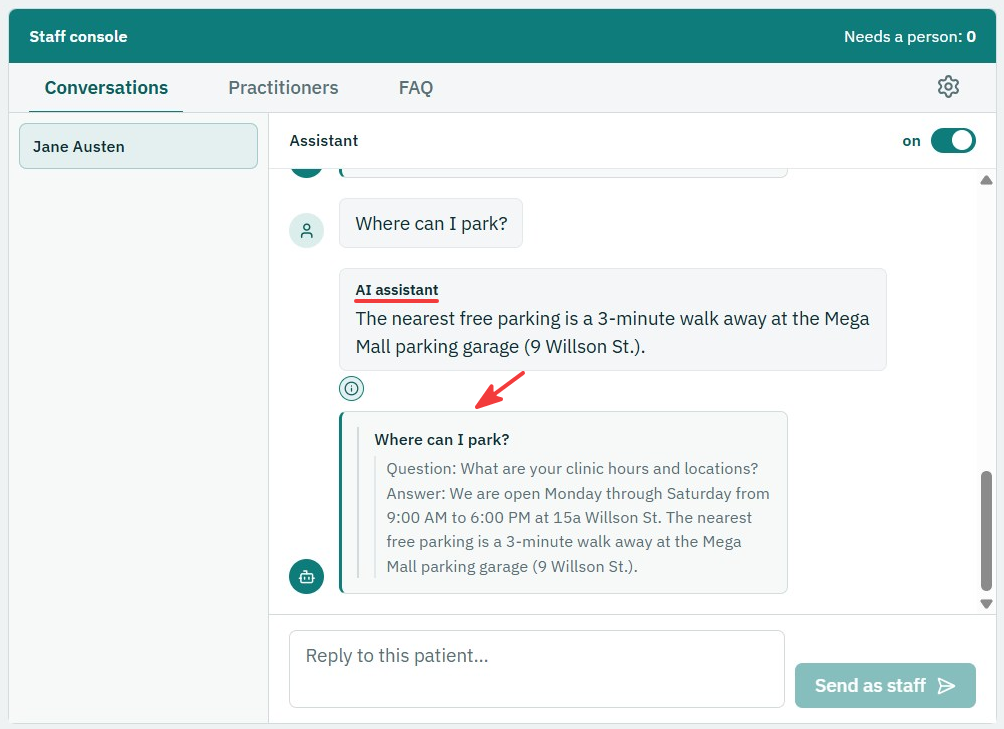
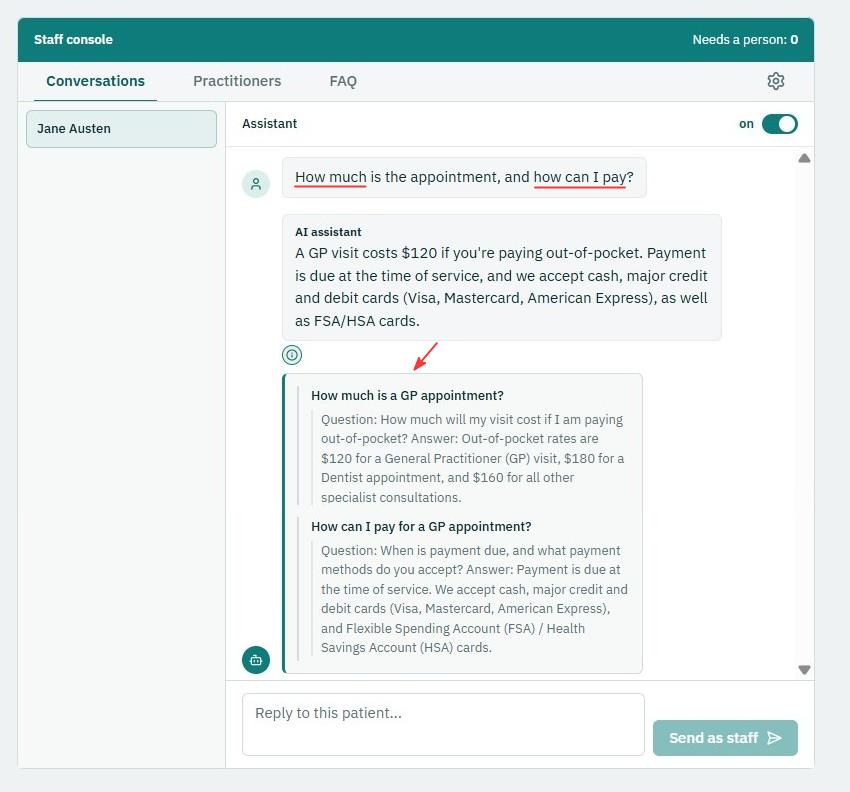
docs: Rework the AI engineering portfolio page - link the heading to VisitDoc.app, add hover screenshots of a multi-topic reply and a cited answer, and refresh the citation screenshot

diff --git a/docs/portfolio-ai-engineering.html b/docs/portfolio-ai-engineering.html
@@ -3,7 +3,7 @@
 <head>
 <meta charset="utf-8">
 <meta name="viewport" content="width=device-width, initial-scale=1">
-<title>VisitDoc · AI Engineering</title>
+<title>visitdoc.app · AI Engineering</title>
 <style>
   :root { --ink:#1c2430; --muted:#5b6675; --accent:#0f6b5c; --soft:#e8f3f0; --line:#d7dee5; }
   @page { size: A4; margin: 8mm 12mm; }
@@ -16,6 +16,7 @@
   nav a { color:var(--muted); margin-right:10px; }
   nav a.on { color:var(--accent); font-weight:600; text-decoration:none; }
   h1 { font-size:17pt; margin:0; letter-spacing:-.2px; }
+  h1 a { color:var(--accent); text-decoration:none; }
   .sub { color:var(--muted); margin:1px 0 4px; }
   .lede { background:var(--soft); border-left:3px solid var(--accent); padding:5px 9px; margin:0 0 6px; }
   h2 { font-size:10pt; color:var(--accent); text-transform:uppercase; letter-spacing:.6px;
@@ -33,6 +34,8 @@
   .peek img { display:none; position:absolute; left:0; top:calc(100% + 6px); z-index:10; width:672px; max-width:88vw;
               border:1px solid var(--line); border-radius:6px; background:#fff; box-shadow:0 6px 24px rgba(0,0,0,.18); }
   .peek:hover img, .peek:focus-visible img { display:block; }
+  .peek.half img { width:336px; }
+  .peek.mid img { width:504px; }
   @media (max-width:640px) { .page { margin:0; padding:16px; box-shadow:none; } .stats { flex-wrap:wrap; } .stat { flex:1 1 45%; } }
   @media print { .peek img { display:none !important; } .peek { border-bottom:0; } body { background:#fff; } .page { margin:0; padding:0; box-shadow:none; max-width:none; } }
 </style>
@@ -40,12 +43,12 @@
 <body>
 <div class="page">
   <nav><a class="on" href="portfolio-ai-engineering.html">AI engineering</a><a href="portfolio-adlc.html">Agentic development</a><a href="portfolio-architecture.html">Architecture</a></nav>
-  <h1>VisitDoc: AI engineering</h1>
+  <h1><a href="https://visitdoc.app" target="_blank" rel="noopener">visitdoc.app</a>: AI engineering</h1>
   <!-- <div class="sub">A chat assistant for a medical clinic · github.com/Andrey-Volkovitskiy/visit-doc</div> -->
-  <p class="lede">A chat assistant for a medical clinic: patients manage appointments and ask policy questions in plain language.
+  <p class="lede">A chat assistant for a medical clinic that helps patients manage appointments and answers policy questions.
   A <b>LangGraph agent</b> splits each message into requests and handles them in parallel, each on the cheapest model that can do the job.
-  Answers come <b>only from retrieved, cited sources</b>, every change is <b>measured against a golden set</b>, and when the assistant
-  can't answer safely, <b>a person is called instead of a guess</b>.</p>
+  Answers come <b>only from retrieved, cited sources</b>, every change is <b>measured</b> against a <b>golden set</b>, and when the assistant
+  can't answer safely, a person is called <b>instead of a guess</b>.</p>
 
   <h2>Agent flow (LangGraph)</h2>
   <svg viewBox="0 0 720 152" role="img" aria-label="Agent flow: classifier, three parallel specialists, composer">
@@ -65,20 +68,20 @@
     <rect class="k" x="90" y="20" width="156" height="112" rx="7"/>
     <text class="t" x="98" y="38">Intent classifier</text>
     <text class="m" x="98" y="52">Haiku · structured output</text>
-    <text class="s" x="98" y="70">• splits the message into</text>
-    <text class="s" x="106" y="82">up to 3 requests</text>
+    <text class="s" x="98" y="70">• splits the message</text>
+    <text class="s" x="106" y="82">into several requests</text>
     <text class="s" x="98" y="96">• gives each an intent</text>
-    <text class="s" x="98" y="110">• rewrites each to stand on</text>
-    <text class="s" x="106" y="122">its own (from chat history)</text>
+    <text class="s" x="98" y="110">• rewrites each to be</text>
+    <text class="s" x="106" y="122">self-contained</text>
     <rect class="b" x="296" y="4" width="160" height="44" rx="7"/>
     <text class="t" x="304" y="21">Booking</text><text class="m" x="448" y="21" text-anchor="end">Sonnet 5</text>
     <text class="s" x="304" y="38">tool calls → scheduler micro svc.</text>
     <rect class="b" x="296" y="54" width="160" height="44" rx="7"/>
-    <text class="t" x="304" y="71">FAQ</text><text class="m" x="448" y="71" text-anchor="end">Sonnet 5</text>
+    <text class="t" x="304" y="71">FAQ questions</text><text class="m" x="448" y="71" text-anchor="end">Sonnet 5</text>
     <text class="s" x="304" y="88">RAG → cited answer</text>
     <rect class="b" x="296" y="104" width="160" height="44" rx="7"/>
     <text class="t" x="304" y="121">Small talk</text><text class="m" x="448" y="121" text-anchor="end">Haiku 4.5</text>
-    <text class="s" x="304" y="138">greetings, thanks, "ok"</text>
+    <text class="s" x="304" y="138">answers to greetings, thanks, "ok"</text>
     <rect class="k" x="506" y="44" width="112" height="64" rx="7"/>
     <text class="t" x="514" y="62">Composer</text><text class="m" x="514" y="76">Sonnet 5</text>
     <text class="s" x="514" y="90">merges the parts</text>
@@ -95,113 +98,106 @@
     <path class="ln" d="M618,76 H638"/>
   </svg>
   <ul>
-    <li><b>The specialist nodes</b> run in parallel, and each sees only its own requests, so one question can't leak into another's answer.
-      The model is chosen per node for <b>cost</b>: cheap and fast Haiku for classifying and chatting, more capable Sonnet for anything that states a fact or changes a booking.</li>
+    <li><b>Multi-topic message processing:</b> the classifier <a class="peek half" href="img/multi-topic-message.png" target="_blank" rel="noopener">splits<img src="img/multi-topic-message.png" alt="A patient asks to book a GP appointment and where to park; one reply answers the parking question and confirms the booking" onerror="this.remove()"></a> a patient message into several self-contained requests,
+      each handled by a specialist node in parallel, so one reply can book an appointment and answer a clinic policy question.</li>
+    <li><b>Cost-aware model selection:</b> cheap and fast Haiku model for classifying, more capable Sonnet for stating facts and booking.</li>
     <li><b>Tools over two transports:</b> the in-house agent's seven tools reach the scheduling service over <b>gRPC</b>. An external
       agent, the Claude mobile app, gets staff tools over <b>MCP</b> (OAuth 2.1), so staff away from the desk see which chats need attention.</li>
   </ul>
 
   <h2>RAG flow: answer only when it's grounded</h2>
-  <svg viewBox="0 0 720 112" role="img" aria-label="RAG flow from query rewriting to answer or escalation">
+  <svg viewBox="0 0 720 150" role="img" aria-label="RAG flow: the rewritten query goes to a hybrid search, semantic top 5 plus BM25 keyword top 3, which are merged, reranked and either answered with citations or forwarded to staff">
     <defs>
       <marker id="a2" viewBox="0 0 10 10" refX="9" refY="5" markerWidth="6" markerHeight="6" orient="auto"><path d="M0,0L10,5L0,10z" fill="#5b6675"/></marker>
       <style>
         .b2{fill:#fff;stroke:#c9d1da;stroke-width:1.2}
         .k2{fill:#e8f3f0;stroke:#0f6b5c;stroke-width:1.3}
         .w2{fill:#fdf1ec;stroke:#b4532a;stroke-width:1.2;stroke-dasharray:4 3}
+        .g2{fill:#f6faf9;stroke:#0f6b5c;stroke-width:1.1;stroke-dasharray:5 3}
         .t2{font-size:11px;font-weight:600;fill:#1c2430}
         .s2{font-size:9.4px;fill:#5b6675}
+        .m2{font-size:9.4px;fill:#0f6b5c;font-weight:600}
+        .h2{font-size:9.4px;fill:#0f6b5c;font-weight:700;letter-spacing:.5px}
         .q2{font-size:9.4px;fill:#0f6b5c;font-style:italic}
         .lb2{font-size:9.4px;fill:#0f6b5c;font-style:normal;font-weight:600}
         .ln2{stroke:#5b6675;stroke-width:1.2;fill:none;marker-end:url(#a2)}
       </style>
     </defs>
-    <rect class="k2" x="2" y="4" width="118" height="50" rx="7"/>
-    <text class="t2" x="10" y="20">Query rewrite</text>
-    <text class="s2" x="10" y="34">self-contained query</text><text class="s2" x="10" y="46">from the chat history</text>
-    <rect class="b2" x="138" y="4" width="80" height="50" rx="7"/>
-    <text class="t2" x="146" y="20">Embed</text>
-    <text class="s2" x="146" y="34">Voyage</text><text class="s2" x="146" y="46">embeddings</text>
-    <rect class="b2" x="236" y="4" width="146" height="50" rx="7"/>
-    <text class="t2" x="244" y="20">Vector search</text>
-    <text class="s2" x="244" y="34">Qdrant, cosine similarity:</text><text class="s2" x="244" y="46">25 candidates → top 5</text>
-    <rect class="k2" x="400" y="4" width="146" height="50" rx="7"/>
-    <text class="t2" x="408" y="20">Rerank</text>
-    <text class="s2" x="408" y="34">cross-encoder: top 3</text><text class="s2" x="408" y="46">scoring ≥ 0.58 (calibrated)</text>
-    <rect class="b2" x="564" y="4" width="154" height="50" rx="7"/>
-    <text class="t2" x="572" y="20">Answer · Sonnet 5</text>
-    <text class="s2" x="572" y="34">from those chunks only;</text><text class="s2" x="572" y="46">citations = chunks used</text>
-    <rect class="w2" x="400" y="72" width="318" height="36" rx="7"/>
-    <text class="t2" x="408" y="87">No grounded chunks found</text>
-    <text class="s2" x="408" y="101">abstain with no generation call; forward the question to staff</text>
-    <text class="q2" x="2" y="82"><tspan class="lb2">Patient message:</tspan> "How much is the visit?" →</text>
-    <text class="q2" x="2" y="98"><tspan class="lb2">Rewritten query:</tspan> "How much is a dentist visit?"</text>
-    <path class="ln2" d="M120,29 H136"/><path class="ln2" d="M218,29 H234"/>
-    <path class="ln2" d="M382,29 H398"/><path class="ln2" d="M546,29 H562"/>
-    <path class="ln2" d="M473,54 V70"/>
+    <!-- query -->
+    <rect class="k2" x="2" y="34" width="104" height="62" rx="7"/>
+    <text class="t2" x="10" y="51">Query</text>
+    <text class="s2" x="10" y="66">rewritten to be</text><text class="s2" x="10" y="78"> self-contained</text><text class="s2" x="10" y="90">(from chat history)</text>
+    <!-- hybrid search: two branches -->
+    <rect class="g2" x="124" y="2" width="226" height="114" rx="9"/>
+    <text class="h2" x="134" y="16">HYBRID SEARCH · QDRANT</text>
+    <rect class="b2" x="134" y="22" width="76" height="40" rx="7"/>
+    <text class="t2" x="142" y="38">Embed</text><text class="s2" x="142" y="53">Voyage</text>
+    <rect class="b2" x="224" y="22" width="116" height="40" rx="7"/>
+    <text class="t2" x="232" y="38">Semantic</text><text class="m2" x="332" y="38" text-anchor="end">top 5</text>
+    <text class="s2" x="232" y="53">cosine similarity</text>
+    <rect class="b2" x="134" y="70" width="206" height="40" rx="7"/>
+    <text class="t2" x="142" y="86">Keyword · BM25</text><text class="m2" x="332" y="86" text-anchor="end">+ top 3</text>
+    <text class="s2" x="142" y="101">exact terms: codes, names, prices</text>
+    <!-- merge, rerank, answer -->
+    <rect class="b2" x="370" y="34" width="92" height="62" rx="7"/>
+    <text class="t2" x="378" y="51">Merge</text>
+    <text class="s2" x="378" y="66">union of both</text><text class="s2" x="378" y="78">branches</text>
+    <text class="m2" x="378" y="90">5–8 chunks</text>
+    <rect class="k2" x="480" y="34" width="110" height="62" rx="7"/>
+    <text class="t2" x="488" y="51">Rerank</text>
+    <text class="s2" x="488" y="66">cross-encoder</text><text class="s2" x="488" y="78">keeps the top 3</text>
+    <text class="m2" x="488" y="90">score ≥ 0.58</text>
+    <rect class="b2" x="608" y="34" width="110" height="62" rx="7"/>
+    <text class="t2" x="616" y="51">Answer</text><text class="m2" x="616" y="64">Sonnet 5</text>
+    <text class="s2" x="616" y="78">from those chunks</text><text class="s2" x="616" y="90">only; cites them</text>
+    <!-- abstain -->
+    <rect class="w2" x="480" y="112" width="238" height="36" rx="7"/>
+    <text class="t2" x="488" y="127">Forward the question to staff</text>
+    <text class="s2" x="488" y="141">nothing scores ≥ 0.58</text>
+    <!-- example -->
+    <text class="q2" x="2" y="131"><tspan class="lb2">Patient message:</tspan> "How much is it?" →</text>
+    <text class="q2" x="2" y="145"><tspan class="lb2">Rewritten query:</tspan> "How much is a dentist visit?"</text>
+    <!-- arrows -->
+    <path class="ln2" d="M106,65 C120,65 118,42 132,42"/>
+    <path class="ln2" d="M106,65 C120,65 118,90 132,90"/>
+    <path class="ln2" d="M210,42 H222"/>
+    <path class="ln2" d="M340,42 C356,42 352,65 368,65"/>
+    <path class="ln2" d="M340,90 C356,90 352,65 368,65"/>
+    <path class="ln2" d="M462,65 H478"/>
+    <path class="ln2" d="M590,65 H606"/>
+    <path class="ln2" d="M535,96 V110"/>
   </svg>
   <ul>
+    <li><b>Hybrid search:</b> semantic + BM25 keyword search. Of the two merge strategies <b>measured</b> on the <b>golden set</b>,
+      RRF lost 3 answers and adding BM25's top 3 to the semantic top 5 lost none, so addition ships.</li>
     <li><b>Structure-aware chunking:</b> documents are cut at their headings, one chunk per section, each prefixed with its
-      heading path, so a retrieved chunk keeps the context of the section it came from.</li>
-    <li><b><a class="peek" href="img/citation.png" target="_blank" rel="noopener">FAQ citations<img src="img/citation.png" alt="The staff console showing an assistant answer with the FAQ entry it was retrieved from" onerror="this.remove()"></a> come from the retrieval structure, not from the LLM</b>, so the model can't invent a source. A verdict is stored
-      <b>per request</b>, so a two-question message can answer one and pass the other to staff.</li>
+      heading path, so a retrieved chunk keeps the <b>context</b> of the section it came from.</li>
+    <li><b>Grounded FAQ answers:</b> the model answers only from retrieved clinic policy and hands uncovered questions to staff
+      instead of guessing. <b><a class="peek mid" href="img/citation.png" target="_blank" rel="noopener">Citations<img src="img/citation.png" alt="The staff console showing an assistant answer with the FAQ entry it was retrieved from" onerror="this.remove()"></a></b>
+      show staff which policy sections each answer drew on.</li>
   </ul>
 
   <h2>Data-driven decisions</h2>
   <ul>
     <li><b>A golden set</b> of 146 labelled cases and an <b>evaluation harness</b> that drives them through the real stack, so every change
-      to the flow, a prompt or a setting gets a <b>side-by-side comparison</b> with the baseline. A <b>measured noise band</b> 
+      to the flow, a prompt or a setting gets a side-by-side comparison with the baseline. A <b>measured noise band</b> 
       separates a real improvement or regression from the model's ordinary run-to-run variation.</li>
-    <li><b>Tuned by measurement, not by intuition:</b> the evaluation drove the prompt improvements, the retrieval thresholds (the rerank floor
-      calibrated at 0.58) and a temperature for the classifier. <b>Unserved answerable requests fell from
-      12/87 to 1/87</b>.</li>
-    <li><a class="peek" href="img/langfuse-trace.png" target="_blank" rel="noopener"><b>Langfuse</b><img src="img/langfuse-trace.png" alt="A Langfuse trace of one turn: each step with its latency and cost" onerror="this.remove()"></a> traces the cost and latency of every step of the flow. <b>Prompt caching</b>, added where the traces showed the
-      spend, <b>cut model costs by 45%</b>.</li>
+    <li><b>Tuned by measurement, not by intuition:</b> the evaluation drove the prompt improvements,
+      the rerank floor (calibrated at 0.58) and a temperature for the classifier.
+      Unserved answerable requests fell from 12/87 to 1/87.</li>
+    <li><a class="peek" href="img/langfuse-trace.png" target="_blank" rel="noopener"><b>Langfuse</b><img src="img/langfuse-trace.png" alt="A Langfuse trace of one turn: each step with its latency and cost" onerror="this.remove()"></a> traces cost and latency per step, and guided <b>prompt caching</b> that cut model <b>costs by 45%</b>.</li>
   </ul>
 
-  <!-- <h2>Escalation flow: when a person is called</h2>
-  <svg viewBox="0 0 720 96" role="img" aria-label="Escalation flow">
-    <defs>
-      <marker id="a3" viewBox="0 0 10 10" refX="9" refY="5" markerWidth="6" markerHeight="6" orient="auto"><path d="M0,0L10,5L0,10z" fill="#5b6675"/></marker>
-      <style>
-        .r3{fill:#fdf1ec;stroke:#b4532a;stroke-width:1.3}
-        .y3{fill:#fff8e6;stroke:#b98a1d;stroke-width:1.2}
-        .b3{fill:#fff;stroke:#c9d1da;stroke-width:1.2}
-        .t3{font-size:11px;font-weight:600;fill:#1c2430}
-        .s3{font-size:9.4px;fill:#5b6675}
-        .ln3{stroke:#5b6675;stroke-width:1.2;fill:none;marker-end:url(#a3)}
-      </style>
-    </defs>
-    <rect class="r3" x="2" y="4" width="300" height="40" rx="7"/>
-    <text class="t3" x="10" y="20">Classifier: urgent symptoms · distress · asks</text>
-    <text class="t3" x="10" y="35">for a person · booking for someone else</text>
-    <rect class="y3" x="2" y="52" width="300" height="40" rx="7"/>
-    <text class="t3" x="10" y="68">No grounded FAQ answer · not authorized</text>
-    <text class="t3" x="10" y="83">(e.g. prescription) · booking tool or any error</text>
-    <rect class="r3" x="330" y="4" width="226" height="40" rx="7"/>
-    <text class="t3" x="338" y="20">Immediate hand-off · AI goes silent</text>
-    <text class="s3" x="338" y="35">fixed reply; urgent → emergency services</text>
-    <rect class="y3" x="330" y="52" width="226" height="40" rx="7"/>
-    <text class="t3" x="338" y="68">Staff called to follow up</text>
-    <text class="s3" x="338" y="83">AI keeps answering the rest of the chat</text>
-    <rect class="b3" x="582" y="18" width="136" height="70" rx="7"/>
-    <text class="t3" x="590" y="36">Staff console</text>
-    <text class="s3" x="590" y="51">conversation marked</text>
-    <text class="s3" x="590" y="64">with the cause;</text><text class="s3" x="590" y="76">staff reply in thread</text>
-    <path class="ln3" d="M302,24 H328"/><path class="ln3" d="M302,72 H328"/>
-    <path class="ln3" d="M556,24 C568,24 568,40 580,40"/><path class="ln3" d="M556,72 C568,72 568,58 580,58"/>
-  </svg> -->
-
   <div class="stats">
-    <div class="stat"><div class="n">146</div><div class="l">golden cases, scored per request</div></div>
+    <div class="stat"><div class="n">146</div><div class="l">golden cases steering development</div></div>
+    <div class="stat"><div class="n">12/87 → 1/87</div><div class="l">missed answers cut by eval-driven fixes</div></div>
     <div class="stat"><div class="n">−45%</div><div class="l">model spend after prompt caching</div></div>
-    <div class="stat"><div class="n">12 → 1</div><div class="l">unserved answerable requests (of 87)</div></div>
     <div class="stat"><div class="n">Tools + MCP</div><div class="l">7 agent tools · 2 read-only staff tools for the Claude app</div></div>
   </div>
 
-  <div class="stack"><b>Stack:</b> <b>LLMs:</b>&nbsp;Claude Sonnet 5 / Haiku 4.5, structured outputs, tool calling,
-  prompt caching · <b>Agent:</b>&nbsp;LangGraph · <b>RAG:</b>&nbsp;voyage-4-lite embedder + voyage-rerank-3 cross-encoder, Qdrant ·
-  <b>Eval &amp; observability:</b>&nbsp;custom golden-set harness with noise band, Langfuse · <b>Integration:</b>&nbsp;MCP (OAuth 2.1), gRPC</div>
+  <div class="stack"><b>Stack:</b> <b>LLMs:</b>&nbsp;Claude API, structured outputs, tool calling,
+  prompt caching · <b>Agent:</b>&nbsp;LangGraph · <b>RAG:</b>&nbsp;voyage embedder, voyage rerank cross-encoder, Qdrant hybrid search (semantic + BM25) ·
+  <b>Eval &amp; observability:</b>&nbsp;custom sgolden-set harness with noise band, Langfuse · <b>Integration:</b>&nbsp;MCP (OAuth 2.1), gRPC</div>
 </div>
 </body>
 </html>
